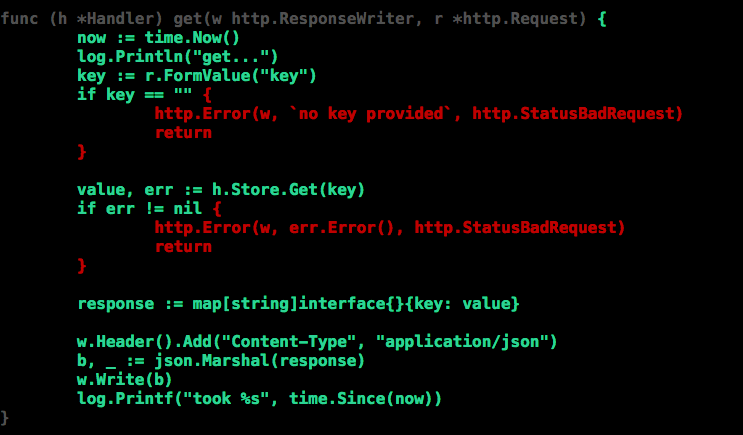
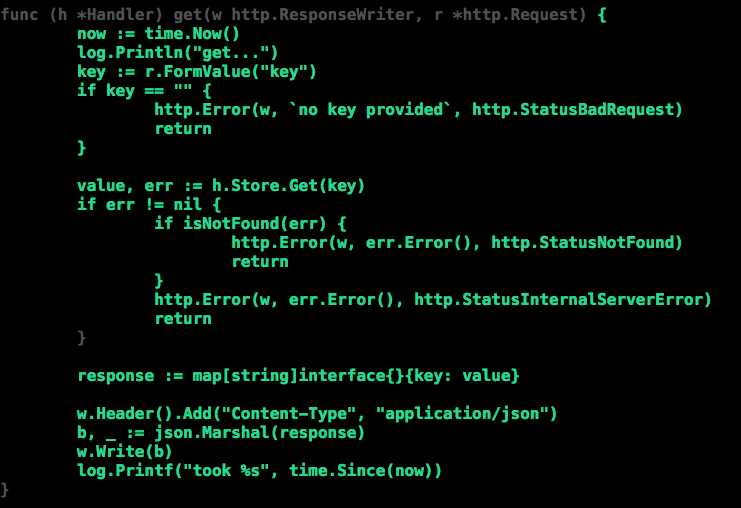
updates to testing slides based on first presentation

diff --git a/code/testing/decoupled/httpd/handler_test.go b/code/testing/decoupled/httpd/handler_test.go
@@ -2,14 +2,13 @@ package httpd_test
 
 import (
 	"encoding/json"
-	"fmt"
+	"errors"
 	"io/ioutil"
 	"log"
 	"net/http"
 	"net/http/httptest"
 	"net/url"
 	"testing"
-	"time"
 
 	"github.com/corylanou/go-presentations/code/testing/decoupled/httpd"
 )
@@ -30,72 +29,123 @@ func TestSet_NoErrors(t *testing.T) {
 	if err != nil {
 		t.Fatal(err)
 	}
+
 	r.Form = url.Values{"key": []string{"foo"}, "value": []string{"bar"}}
 
 	handler.ServeHTTP(w, r)
 	if exp, got := w.Code, http.StatusAccepted; exp != got {
 		t.Errorf("unexpected error code. exp: %d, got %d", exp, got)
 	}
-
-	// START FUNC-INNER-OMIT
-	test := func() error {
-		w = httptest.NewRecorder()
-		r, err = http.NewRequest("GET", "/key?key=foo", nil)
-		if err != nil {
-			return err
-		}
-		handler.ServeHTTP(w, r)
-
-		if got, exp := w.Code, http.StatusOK; got != exp {
-			return fmt.Errorf("unexpected status code.  got %d, expected %d", got, exp)
-		}
-		data := map[string]interface{}{}
-		if err := json.Unmarshal(w.Body.Bytes(), &data); err != nil {
-			return err
-		}
-		if got, exp := data["foo"], "bar"; got != exp {
-			return fmt.Errorf("unexpected value.  got: %v, exp %v", got, exp)
-		}
-		// test successful
-		return nil
-	}
-	// END FUNC-INNER-OMIT
-
-	// START CHANNEL-SETUP-OMIT
-	ticker := time.NewTicker(100 * time.Millisecond)
-	defer ticker.Stop()
-	timeout := time.NewTimer(4 * time.Second)
-	defer timeout.Stop()
-	// END CHANNEL-SETUP-OMIT
-
-	// START CHANNEL-OMIT
-	var testErr error
-
-	for {
-		select {
-		case <-timeout.C:
-			t.Fatalf("test timed out waiting for success.  last error: %s", testErr)
-			return
-		case <-ticker.C:
-			testErr = test()
-			if testErr == nil {
-				// test successful
-				return
-			}
-		}
-	}
-	// END CHANNEL-OMIT
 }
+
+// START NO-KEY-OMIT
+func TestGet_NoKey(t *testing.T) {
+	handler := httpd.NewHandler()
+	store := &MockStore{}
+	handler.Store = store
+
+	w := httptest.NewRecorder()
+	r, err := http.NewRequest("GET", "/key", nil)
+	if err != nil {
+		t.Fatal(err)
+	}
+
+	handler.ServeHTTP(w, r)
+	if exp, got := w.Code, http.StatusBadRequest; exp != got {
+		t.Log(w.Body)
+		t.Errorf("unexpected error code. exp: %d, got %d", exp, got)
+	}
+}
+
+// END NO-KEY-OMIT
+
+// START NOT-FOUND-OMIT
+func TestGet_NotFound(t *testing.T) {
+	handler := httpd.NewHandler()
+	store := &MockStore{}
+	store.getFn = func(string) (interface{}, error) {
+		return nil, notFound{}
+	}
+	handler.Store = store
+
+	w := httptest.NewRecorder()
+	r, err := http.NewRequest("GET", "/key?key=foo", nil)
+	if err != nil {
+		t.Fatal(err)
+	}
+
+	handler.ServeHTTP(w, r)
+	if got, exp := w.Code, http.StatusNotFound; got != exp {
+		t.Log(w.Body)
+		t.Errorf("unexpected error code. got: %d, exp %d", got, exp)
+	}
+}
+
+// END NOT-FOUND-OMIT
+
+// START GET-SERVER-ERROR-OMIT
+func TestGet_ServerError(t *testing.T) {
+	handler := httpd.NewHandler()
+	store := &MockStore{}
+	store.getFn = func(string) (interface{}, error) {
+		return nil, errors.New("boom")
+	}
+	handler.Store = store
+
+	w := httptest.NewRecorder()
+	r, err := http.NewRequest("GET", "/key?key=foo", nil)
+	if err != nil {
+		t.Fatal(err)
+	}
+
+	handler.ServeHTTP(w, r)
+	if got, exp := w.Code, http.StatusInternalServerError; got != exp {
+		t.Log(w.Body)
+		t.Errorf("unexpected error code. got: %d, exp %d", got, exp)
+	}
+}
+
+// END GET-SERVER-ERROR-OMIT
+
+// START GET-SUCCESS-OMIT
+func TestGet_Success(t *testing.T) {
+	handler := httpd.NewHandler()
+	store := &MockStore{}
+	store.getFn = func(string) (interface{}, error) {
+		return "bar", nil
+	}
+	handler.Store = store
+
+	w := httptest.NewRecorder()
+	r, err := http.NewRequest("GET", "/key?key=foo", nil)
+	if err != nil {
+		t.Fatal(err)
+	}
+
+	handler.ServeHTTP(w, r)
+	if got, exp := w.Code, http.StatusOK; got != exp {
+		t.Fatalf("unexpected status code.  got %d, expected %d", got, exp)
+	}
+	data := map[string]interface{}{}
+	if err := json.Unmarshal(w.Body.Bytes(), &data); err != nil {
+		t.Fatal(err)
+	}
+	if got, exp := data["foo"], "bar"; got != exp {
+		t.Fatalf("unexpected value.  got: %v, exp %v", got, exp)
+	}
+}
+
+// END GET-SUCCESS-OMIT
 
 // START MOCK-OMIT
 type MockStore struct {
-	upsertFn func(key string, value interface{})
-	getFn    func(key string) (interface{}, error)
+	setFn func(key string, value interface{})
+	getFn func(key string) (interface{}, error)
 }
 
 func (ms *MockStore) Set(key string, value interface{}) {
-	if ms.upsertFn != nil {
-		ms.upsertFn(key, value)
+	if ms.setFn != nil {
+		ms.setFn(key, value)
 	}
 }
 
@@ -119,3 +169,12 @@ func TestVerbose(t *testing.T) {
 }
 
 // END VERBOSE-OMIT
+
+// not found mock
+type notFound struct{}
+
+func (nf notFound) NotFound() {}
+
+func (nf notFound) Error() string {
+	return ""
+}

diff --git a/code/testing/decoupled/httpd/handler.go b/code/testing/decoupled/httpd/handler.go
@@ -28,13 +28,13 @@ func NewHandler() *Handler {
 }
 
 func (h *Handler) ServeHTTP(w http.ResponseWriter, r *http.Request) {
-	h.mux.Add("POST", "/key", http.HandlerFunc(h.upsert))
+	h.mux.Add("POST", "/key", http.HandlerFunc(h.set))
 	h.mux.Add("GET", "/key", http.HandlerFunc(h.get))
 	h.mux.ServeHTTP(w, r)
 }
 
-func (h *Handler) upsert(w http.ResponseWriter, r *http.Request) {
-	log.Println("upsert...")
+func (h *Handler) set(w http.ResponseWriter, r *http.Request) {
+	log.Println("set...")
 	key := r.FormValue("key")
 	value := r.FormValue("value")
 	h.Store.Set(key, value)
@@ -53,7 +53,11 @@ func (h *Handler) get(w http.ResponseWriter, r *http.Request) {
 
 	value, err := h.Store.Get(key)
 	if err != nil {
-		http.Error(w, err.Error(), http.StatusBadRequest)
+		if isNotFound(err) {
+			http.Error(w, err.Error(), http.StatusNotFound)
+			return
+		}
+		http.Error(w, err.Error(), http.StatusInternalServerError)
 		return
 	}
 
@@ -63,4 +67,12 @@ func (h *Handler) get(w http.ResponseWriter, r *http.Request) {
 	b, _ := json.Marshal(response)
 	w.Write(b)
 	log.Printf("took %s", time.Since(now))
+}
+
+func isNotFound(err error) bool {
+	type notFound interface {
+		NotFound()
+	}
+	_, ok := err.(notFound)
+	return ok
 }

diff --git a/code/testing/coupled/httpd/handler.go b/code/testing/coupled/httpd/handler.go
@@ -26,13 +26,14 @@ func NewHandler() *Handler {
 }
 
 func (h *Handler) ServeHTTP(w http.ResponseWriter, r *http.Request) {
-	h.mux.Add("POST", "/key", http.HandlerFunc(h.upsert))
+	h.mux.Add("POST", "/key", http.HandlerFunc(h.set))
 	h.mux.Add("GET", "/key", http.HandlerFunc(h.get))
 	h.mux.ServeHTTP(w, r)
 }
 
-func (h *Handler) upsert(w http.ResponseWriter, r *http.Request) {
-	log.Println("upsert...")
+// START SET-OMIT
+func (h *Handler) set(w http.ResponseWriter, r *http.Request) {
+	log.Println("set...")
 	key := r.FormValue("key")
 	value := r.FormValue("value")
 	h.Store.Set(key, value)
@@ -40,6 +41,9 @@ func (h *Handler) upsert(w http.ResponseWriter, r *http.Request) {
 	w.WriteHeader(http.StatusAccepted)
 }
 
+// END SET-OMIT
+
+// START GET-OMIT
 func (h *Handler) get(w http.ResponseWriter, r *http.Request) {
 	now := time.Now()
 	log.Println("get...")
@@ -62,3 +66,5 @@ func (h *Handler) get(w http.ResponseWriter, r *http.Request) {
 	w.Write(b)
 	log.Printf("took %s", time.Since(now))
 }
+
+// END GET-OMIT

diff --git a/code/testing/coupled/keys/store.go b/code/testing/coupled/keys/store.go
@@ -8,11 +8,14 @@ import (
 	"time"
 )
 
+// START STORE-OMIT
 type Store struct {
 	id     int
 	values map[string]interface{}
 	mu     sync.RWMutex
 }
+
+// END STORE-OMIT
 
 func NewStore() *Store {
 	s := Store{}
@@ -20,8 +23,10 @@ func NewStore() *Store {
 	return &s
 }
 
+// START STORE-SET-OMIT
 func (vs *Store) Set(key string, value interface{}) {
 	vs.id++
+	// Make this an asynchronous call
 	go func() {
 		vs.mu.Lock()
 		defer vs.mu.Unlock()
@@ -34,15 +39,19 @@ func (vs *Store) Set(key string, value interface{}) {
 		vs.values[key] = value
 		log.Println("inserted: ", key, " with value of ", value)
 	}()
-
 }
 
+// END STORE-SET-OMIT
+
+// START STORE-GET-OMIT
 func (vs *Store) Get(key string) (interface{}, error) {
 	if v, ok := vs.values[key]; ok {
 		return v, nil
 	}
 	return nil, fmt.Errorf("%s not found", key)
 }
+
+// END STORE-GET-OMIT
 
 func (vs *Store) Count() int {
 	return len(vs.values)

diff --git a/code/testing/decoupled/keys/store.go b/code/testing/decoupled/keys/store.go
@@ -1,7 +1,6 @@
 package keys
 
 import (
-	"fmt"
 	"log"
 	"math/rand"
 	"sync"
@@ -41,7 +40,7 @@ func (vs *Store) Get(key string) (interface{}, error) {
 	if v, ok := vs.values[key]; ok {
 		return v, nil
 	}
-	return nil, fmt.Errorf("%s not found", key)
+	return nil, notFound{key: key}
 }
 
 func (vs *Store) Count() int {

diff --git a/code/testing/decoupled/keys/errors.go b/code/testing/decoupled/keys/errors.go
@@ -1,0 +1,13 @@
+package keys
+
+import "fmt"
+
+type notFound struct {
+	key string
+}
+
+func (nf notFound) NotFound() {}
+
+func (nf notFound) Error() string {
+	return fmt.Sprintf("%q not found", nf.key)
+}
